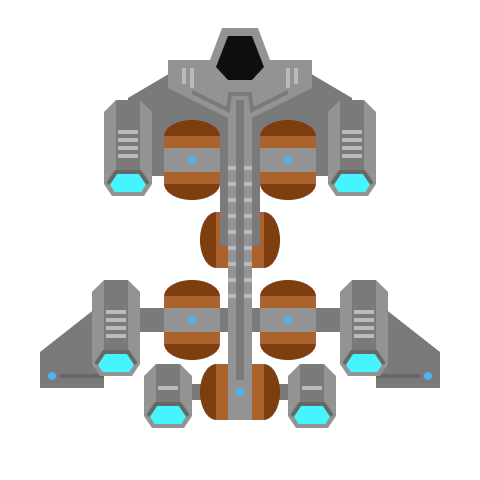
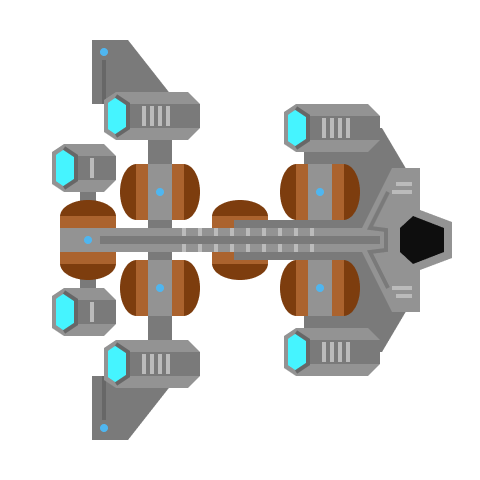
f

diff --git a/clientgameobjects.js b/clientgameobjects.js
@@ -221,8 +221,9 @@ function Ship() {
     this.control = new Vector(0, 0);
     this.afterBurnerActive = 0;
     this.afterBurnerFuel = 0;
-    this.trails = [new Trail(this, new Vector(-90, 0))];
-    this.sprite = new ShadedSprite(this, "ship", { size: 1 });
+    //this.trails = [new Trail(this, new Vector(-90, 0))];
+    this.trails = [new Trail(this, new Vector(-180, -72)), new Trail(this, new Vector(-180, 72)), new Trail(this, new Vector(-127, -124)), new Trail(this, new Vector(-127, 124)), new Trail(this, new Vector(55, -112),false), new Trail(this, new Vector(55, 112),false)];
+    this.sprite = new ShadedSprite(this, "ship2", { size: 1.9 });
 
     this.init = function (type) {
         this.stats = type;
@@ -307,14 +308,14 @@ function Player(id) {
     this.delete = function () {
         //entityContainer.removeChild(this.sprite);
         effectsContainer.removeChild(this.nameText);
-        this.lensFlare.delete();
+        if(this.lensFlare)this.lensFlare.delete();
         this.particleSystems.forEach(ps => {
             ps.delete();
         });
         Player.players.delete(this.id);
         miniMap.removeChild(this.miniMapMarker);
     }
-    this.lensFlare = new LensFlare(this.ship);
+    //this.lensFlare = new LensFlare(this.ship);
 
     this.toGlobal = function (vector) {
         //let rv = Vector.fromAngle(this.ship.rotation);
@@ -587,7 +588,7 @@ function Graph(values, scale) {
 function ColorGraph(colorValues) {
 
     this.min = colorValues[0];
-    this.max = colorValues[colorValues.length-1];
+    this.max = colorValues[colorValues.length - 1];
 
     let blueValues = [];
     let greenValues = [];
@@ -652,9 +653,11 @@ function LensFlare(parent) {
 
 
 
-function Trail(emitter, offset) {
+function Trail(emitter, offset, useTrail) {
+    this.useTrail = useTrail;
+    if(useTrail == null) this.useTrail = true;
     this.engineFlame = new PIXI.Sprite(loader.resources.flame.texture);
-    this.engineFlame.anchor.set(0.9,0.5);
+    this.engineFlame.anchor.set(0.9, 0.5);
     this.engineFlame.blendMode = PIXI.BLEND_MODES.ADD;
     playerEffectsContainer.addChild(this.engineFlame);
     this.emit = false;
@@ -663,13 +666,13 @@ function Trail(emitter, offset) {
     this.boostColor = new ColorRamp(0xffffee, 0xff0077);
     this.baseColor = new ColorRamp(0xaaffff, 0x003388);*/
     this.color = new ColorGraph([0x6ae2f2, 0x5f2eff]);
-    this.boostColor = new ColorGraph([0xffffff,0xff5599,0xff5599,0xaa2299, 0x990055]);
+    this.boostColor = new ColorGraph([0xffffff, 0xff5599, 0xff5599, 0xaa2299, 0x990055]);
     //this.boostColor =new ColorGraph([0x160c28,0xefcb68,0xe1efe6,0xaeb7b3,0x000411,]);
-    this.baseColor = new ColorGraph([0xffffff,0x007788,0x004488,0x223377, 0x112255,0x000000]);
+    this.baseColor = new ColorGraph([0xffffff, 0x007788, 0x004488, 0x223377, 0x112255, 0x000000]);
     this.emitter = emitter;
     this.firstPoint = null;
     //this.scale = new Ramp(10, 0);
-    this.scale = new Graph([30,20,13,9.6,6.7,4.6,3,1.8,0.8,0]);
+    this.scale = new Graph([30, 20, 13, 9.6, 6.7, 4.6, 3, 1.8, 0.8, 0]);
     this.maxAge = 1;
     this.framesPerEmit = 2;
     this.framesFromEmit = 0;
@@ -689,47 +692,49 @@ function Trail(emitter, offset) {
         let emitPos = this.offset.result().rotate(this.emitter.rotation).add((this.emitter.position));
         //let enginePos = this.offset.result().rotate(this.emitter.rotation).add((this.emitter.position));
         //let emitPos = this.offset.result().mult(1+this.heatRatioNormalised*2).rotate(this.emitter.rotation).add((this.emitter.position));
-        this.engineFlame.position.set(emitPos.x,emitPos.y);
+        this.engineFlame.position.set(emitPos.x, emitPos.y);
         this.engineFlame.rotation = this.emitter.rotation;
-        this.engineFlame.scale.x = (1-0.5*Math.random())*this.heatRatioNormalised;
+        this.engineFlame.scale.x = (1 - 0.5 * Math.random()) * Math.min(1,this.heatRatioNormalised*2);
         this.engineFlame.alpha = this.heatRatioNormalised;
         this.engineFlame.tint = this.color.evaluate(0.5);
-        
 
-        while (point != null) {
-            point.age += deltaTime;
-            point.visualAge = Math.min(this.maxAge, point.visualAge + deltaTime);
-            if (point.age >= this.maxAge) {
-                this.firstPoint = point.nextPoint;
-                //console.log(this.firstPoint);
-                this.points--;
-                //console.log("removing point");
-            }
-            else {
-                //let ageRatio = point.age / this.maxAge;
-                let visualAgeRatio = point.visualAge / this.maxAge;
-                let color = point.colorRamp.evaluate(visualAgeRatio);
-                //if (point.stop) color = 0xff0000;
-                let scale = this.scale.evaluate(visualAgeRatio);
-                graphics.beginFill(color);
-                graphics.moveTo(point.pos.x, point.pos.y);
-                graphics.lineStyle(0, color);
-                graphics.drawCircle(point.pos.x, point.pos.y, scale / 2);
-                graphics.lineStyle(scale, color);
-                if (!point.stop) {
-                    if (point.nextPoint != null) {
-                        graphics.lineTo(point.nextPoint.pos.x, point.nextPoint.pos.y);
-                    }
-                    else if (this.heat > 0) {
-                        graphics.lineTo(emitPos.x, emitPos.y);
-                        graphics.lineStyle(0, color);
-                        graphics.drawCircle(emitPos.x, emitPos.y, scale / 2);
-                    }
+
+        if (this.useTrail) {
+            while (point != null) {
+                point.age += deltaTime;
+                point.visualAge = Math.min(this.maxAge, point.visualAge + deltaTime);
+                if (point.age >= this.maxAge) {
+                    this.firstPoint = point.nextPoint;
+                    //console.log(this.firstPoint);
+                    this.points--;
+                    //console.log("removing point");
                 }
-                graphics.endFill();
+                else {
+                    //let ageRatio = point.age / this.maxAge;
+                    let visualAgeRatio = point.visualAge / this.maxAge;
+                    let color = point.colorRamp.evaluate(visualAgeRatio);
+                    //if (point.stop) color = 0xff0000;
+                    let scale = this.scale.evaluate(visualAgeRatio);
+                    graphics.beginFill(color);
+                    graphics.moveTo(point.pos.x, point.pos.y);
+                    graphics.lineStyle(0, color);
+                    graphics.drawCircle(point.pos.x, point.pos.y, scale / 2);
+                    graphics.lineStyle(scale, color);
+                    if (!point.stop) {
+                        if (point.nextPoint != null) {
+                            graphics.lineTo(point.nextPoint.pos.x, point.nextPoint.pos.y);
+                        }
+                        else if (this.heat > 0) {
+                            graphics.lineTo(emitPos.x, emitPos.y);
+                            graphics.lineStyle(0, color);
+                            graphics.drawCircle(emitPos.x, emitPos.y, scale / 2);
+                        }
+                    }
+                    graphics.endFill();
+                }
+                previousPoint = point;
+                point = point.nextPoint;
             }
-            previousPoint = point;
-            point = point.nextPoint;
         }
         if (this.emit) {
             this.heat = Math.min(this.maxHeat, this.heat + deltaTime * this.heatingMultiplier);
@@ -741,7 +746,7 @@ function Trail(emitter, offset) {
                 this.heat = Math.max(0, this.heat - deltaTime * this.coolingMultiplier);
                 this.heatRatio = this.heatRatioMap.evaluate(this.heat / this.maxHeat);
                 this.heatRatioNormalised = this.heat / this.maxHeat;
-                if (this.heat == 0) {
+                if (this.heat == 0 && this.useTrail) {
                     if (previousPoint) {
                         previousPoint.nextPoint = new Point(emitPos, true, this.maxAge * this.heatRatio, this.color);
                         this.points++;
@@ -769,7 +774,7 @@ function Trail(emitter, offset) {
         }
         if (this.heat > 0) {
             this.framesFromEmit++;
-            if (this.framesFromEmit >= this.framesPerEmit) {
+            if (this.framesFromEmit >= this.framesPerEmit && this.useTrail) {
                 if (previousPoint)
                     previousPoint.nextPoint = new Point(emitPos, false, this.maxAge * this.heatRatio, this.color);
                 else

diff --git a/client.js b/client.js
@@ -61,6 +61,9 @@ loader
     .add("ship_base", "images/ship_base.png")
     .add("ship_dark", "images/ship_dark.png")
     .add("ship_outline", "images/ship_outline.png")
+    .add("ship2_base", "images/ship2_base.png")
+    .add("ship2_dark", "images/ship2_dark.png")
+    .add("ship2_outline", "images/ship2_outline.png")
     .add("asteroid_base", "images/asteroid_base.png")
     .add("asteroid_dark", "images/asteroid_dark.png")
     .add("asteroid_outline", "images/asteroid_outline.png")
@@ -178,12 +181,15 @@ let gauges = {
     hull: document.getElementById("gaugeHull"),
     fuel: document.getElementById("gaugeFuel"),
     cargo: document.getElementById("gaugeCargo"),
+    speed: document.getElementById("gaugeSpeed"),
+    maxSpeed: document.getElementById("gaugeSpeed2"),
 }
 let gaugeNumbers = {
     shield: document.getElementById("numberShield"),
     hull: document.getElementById("numberHull"),
     fuel: document.getElementById("numberFuel"),
     cargo: document.getElementById("numberCargo"),
+    speed: document.getElementById("numberSpeed"),
 }
 
 //#endregion
@@ -330,7 +336,7 @@ function graphicsUpdate(deltaTimeFactor) {
         updateGui(deltaTime);
 
         Player.players.forEach(player => {
-
+            if(player.lensFlare)
             player.lensFlare.update(player.toGlobal(new Vector(-90, 0)).add({ x: -camera.x, y: -camera.y }).mult(camera.zoom));
         });
 
@@ -477,16 +483,23 @@ function updateGui(deltaTime) {
     let hullRatio = 75;
     let fuelRatio = localPlayer.ship.afterBurnerFuel / 6;
     let cargoRatio = 0;
+    let speedG = localPlayer.ship.velocity.length();
+    let maxSpeedG = 1 - localPlayer.ship.debuff / 110;;
+    let speedRatio = speedG/20;
+    let maxSpeedRatio = maxSpeedG/20;
 
     gauges.shield.style.width = shieldRatio + "%";
     gauges.hull.style.width = hullRatio + "%";
     gauges.fuel.style.width = fuelRatio + "%";
     gauges.cargo.style.width = cargoRatio + "%";
+    gauges.speed.style.width = speedRatio + "%";
+    gauges.maxSpeed.style.width = maxSpeedRatio + "%";
 
     gaugeNumbers.shield.innerHTML = shieldRatio.toFixed(0);
     gaugeNumbers.hull.innerHTML = hullRatio.toFixed(0);
     gaugeNumbers.fuel.innerHTML = fuelRatio.toFixed(0);
     gaugeNumbers.cargo.innerHTML = cargoRatio.toFixed(0);
+    gaugeNumbers.speed.innerHTML = speedG.toFixed(0) + " / "+ maxSpeedG.toFixed(0);
 
     UpdateMinimap(deltaTime);
 

diff --git a/client.html b/client.html
@@ -87,6 +87,7 @@
             <div class="tooltip" data-tooltip-name="Shield Integrity" data-tooltip-desc="The integrity of the shield."><img src="images/ui/iconShield.png"><div class="gauge"><div id="gaugeShield"></div></div><h1 id="numberShield">75</h1></div>
             <div class="tooltip" data-tooltip-name="Hull Integrity" data-tooltip-desc="The strength of the ship's hull. When it reaches zero, the ship explodes."><img src="images/ui/iconHull.png"><div class="gauge"><div id="gaugeHull"></div></div><h1 id="numberHull">75</h1></div>
             <div class="tooltip" data-tooltip-name="Remaining Fuel" data-tooltip-desc="Remaining afterburner fuel in the tank. When it runs out, the afterburner is disabled."><img src="images/ui/iconFuel.png"><div class="gauge"><div id="gaugeFuel"></div></div><h1 id="numberFuel">100</h1></div>
+            <div class="tooltip" data-tooltip-name="Ship Speed" data-tooltip-desc="The speed and max speed of the ship, affected by surronding gas density."><img src="images/ui/iconFuel.png"><div class="gauge"><div id="gaugeSpeed"></div><div id="gaugeSpeed2"></div></div><h1 id="numberSpeed">100</h1></div>
             <div class="tooltip" data-tooltip-name="Cargo Load" data-tooltip-desc="The ship's cargo load."><img src="images/ui/iconCargo.png"><div class="gauge"><div id="gaugeCargo"></div></div><h1 id="numberCargo">100</h1></div>
         </div>
     </div>

diff --git a/style.css b/style.css
@@ -304,6 +304,12 @@ body {
 #gaugeCargo {
     background: #ACACAC;
 }
+#gaugeSpeed {
+    background: #ffffff;
+}
+#gaugeSpeed2 {
+    background: #a5a5a5;
+}
 
 #tooltip {
     z-index:100;
